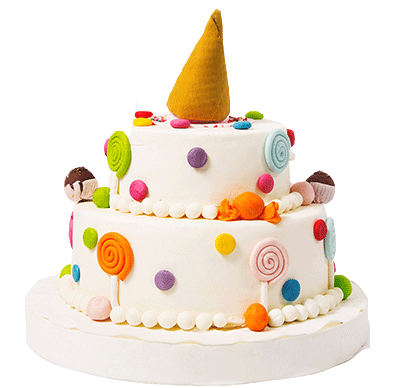
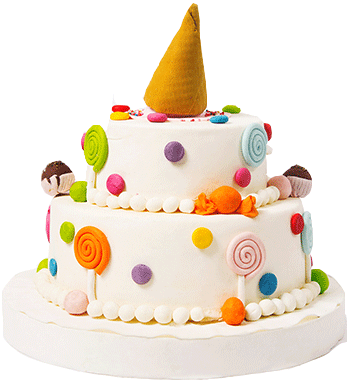
Changed imgs in cakes gallery

Changed region(s): [[0.0865, 0.0, 1.0, 1.0], [0.3458, 0.6911, 0.4611, 0.7775], [0.1441, 0.8351, 0.1729, 0.8639]]

diff --git a/index.html b/index.html
@@ -93,7 +93,7 @@
                             <h4 class="card__title">Классические</h4>
                             <h5 class="card__number">24 вида</h5>
                         </div>
-                        <img src="./css/cakes-gallery/cards/classic-card/classic_cake1.png" alt="classic-cake"
+                        <img src="./css/cakes-gallery/cards/classic-card/classic_cake2.png" alt="classic-cake"
                             class="card__img">
 
                         <div class="card__footer">
@@ -109,7 +109,7 @@
                                 <h4 class=" card__title">Муссовые</h4>
                                 <h5 class="card__number">12 видов</h5>
                             </div>
-                            <img src="./css/cakes-gallery/cards/muss-card/muss_cake1.png" alt="muss-cake"
+                            <img src="./css/cakes-gallery/cards/muss-card/muss_cake2.png" alt="muss-cake"
                                 class="card__img">
 
                             <div class="card__footer">
@@ -122,7 +122,7 @@
                                 <h4 class=" card__title">Свадебные</h4>
                                 <h5 class="card__number">20 видов</h5>
                             </div>
-                            <img src="./css/cakes-gallery/cards/wedding-card/wedding_cake1.png" alt="wedding-cake"
+                            <img src="./css/cakes-gallery/cards/wedding-card/wedding_cake2.png" alt="wedding-cake"
                                 class="card__img">
 
                             <div class="card__footer"><a href="#"><i class="fas fa-arrow-right"></i></a></div>
@@ -137,7 +137,7 @@
                                 <h4 class="card__title">Мужчинам</h4>
                                 <h5 class="card__number">12 видов</h5>
                             </div>
-                            <img src="./css/cakes-gallery/cards/man-card/man_cake1.png" alt="man-cake"
+                            <img src="./css/cakes-gallery/cards/man-card/man_cake2.png" alt="man-cake"
                                 class="card__img">
                             <div class="card__footer"><a href="#"><i class="fas fa-arrow-right"></i></a></div>
                         </div>
@@ -147,7 +147,7 @@
                                 <h4 class="card__title">Женщинам</h4>
                                 <h5 class="card__number">16 видов</h5>
                             </div>
-                            <img src="./css/cakes-gallery/cards/woman-card/woman_cake1.png" alt="woman-cake"
+                            <img src="./css/cakes-gallery/cards/woman-card/woman_cake2.png" alt="woman-cake"
                                 class="card__img">
 
                             <div class="card__footer"><a href="#"><i class="fas fa-arrow-right"></i></a></div>
@@ -159,7 +159,7 @@
                             <h4 class="card__title">Детские</h4>
                             <h5 class="card__number">18 видов</h5>
                         </div>
-                        <img src="./css/cakes-gallery/cards/kids-card/kids_cake1.png" alt="kids-cake" class="card__img">
+                        <img src="./css/cakes-gallery/cards/kids-card/kids_cake2.png" alt="kids-cake" class="card__img">
                         <div class="card__footer"><a href="#"><i class="fas fa-arrow-right"></i></a></div>
                     </div>
                 </div>

diff --git a/css/cakes-gallery/cards/card/card.css b/css/cakes-gallery/cards/card/card.css
@@ -16,22 +16,33 @@
 }
 
 .card__size_big .card__img{
-    width: 696px;
-    height: 653px;
+    margin-top: 80px;
+    margin-left: 70px;
+    width: 560px;
+    height: 500px;
 }
-
+.cakes-gallery__wrapper .cakes-gallery__inner:last-child .card__size_big .card__img{
+    margin-top: 20px;
+    height: 620px;
+    width: 570px;
+}
 .card__size_little{
     position: relative;
-    max-width: 484px;
-    max-height: 305px;
+    width: 484px;
+    height: 305px;
 }
 
 .card__size_little .card__img{
-    max-width: 484px;
-    max-height: 305px;
+    width: 270px;
+    height: 210px;
+    margin: 60px 90px 40px 120px;
 }
 
-
+.cakes-gallery__wrapper .cakes-gallery__inner:first-child .cakes-gallery__wrapper_little .card__size_little:nth-child(2) .card__img{
+    margin-left: 200px;
+    width: 170px;
+    height: 230px;
+}
 
 .card__text {
     position: absolute;
@@ -71,13 +82,36 @@
 
 
 @media (min-width: 768px) and (max-width: 1024px) {
-    .card__size_big,   .card__size_big .card__img {
+    .card__size_big {
         width: 419px;
         height: 388px;
     }
-    .card__size_little, .card__size_little .card__img {
+    .card__size_big .card__img{
+        margin-top: 30px;
+        margin-left: 40px;
+        width: 330px;
+        height: 330px;
+    }
+    .cakes-gallery__wrapper .cakes-gallery__inner:last-child .card__size_big .card__img{
+        margin-top: 12px;
+        height: 375px;
+        width: 330px;
+    }
+    .card__size_little {
         width: 288px;
         height: 184px;
+    }
+
+    .card__size_little .card__img{
+        width: 145px;
+        height: 120px;
+        margin: 40px 50px 20px 70px;
+    }
+    .cakes-gallery__wrapper .cakes-gallery__inner:first-child .cakes-gallery__wrapper_little .card__size_little:nth-child(2) .card__img{
+        margin-top: 34px;
+        margin-left: 110px;
+        width: 110px;
+        height: 142px;
     }
 
     .card__title {

diff --git a/css/cakes-gallery/cards/classic-card/classic-card.css b/css/cakes-gallery/cards/classic-card/classic-card.css
@@ -9,9 +9,10 @@
 
 
 @media (min-width: 768px) and (max-width: 1024px) {
-    .classic-card__footer-text {
+    .card__footer .footer__text {
         font-size: 12px;
         bottom: 20px;
-        margin-right: 72px
+        margin-right: 20px;
+        margin-bottom: 10px;
     }
 }
